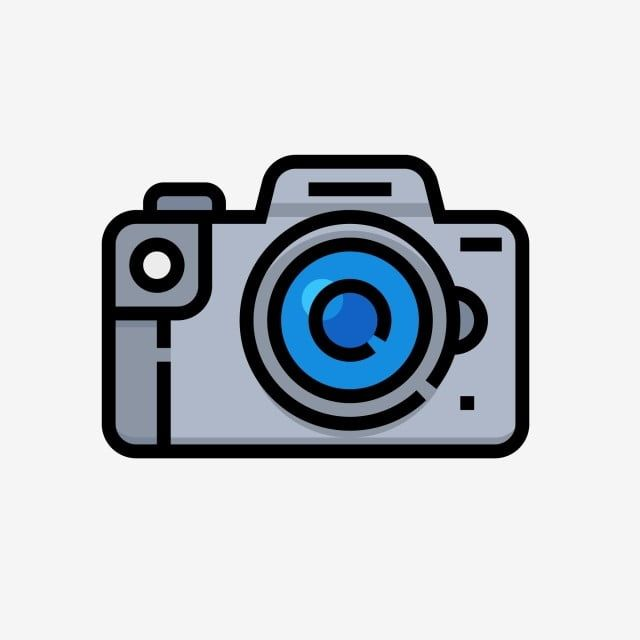
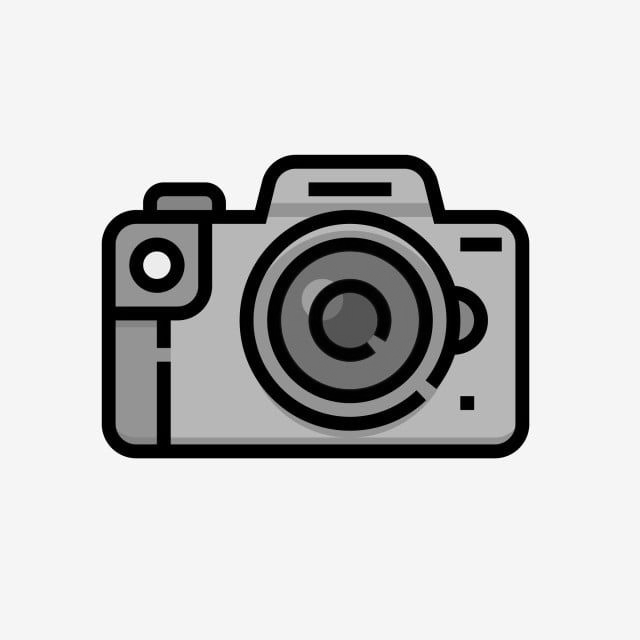
Add files via upload

Changed region(s): [[0.4375, 0.375, 0.6562, 0.625], [0.2812, 0.3125, 0.3125, 0.3438]]

diff --git a/home/graphics.html b/home/graphics.html
@@ -16,7 +16,7 @@
 
 	<!-- Prevent smartphones from scaling pages down -->
 	<meta name="viewport" content="initial-scale=1">
-	<link rel="icon" href="images/house.svg">
+	<link rel="icon" href="images/graphics.png">
 
 </head>
 <body>
@@ -32,7 +32,7 @@
 				<li class="navtext"><a href="index.html">About Me</a></li>
 			</ul>
 			<ul class="navigation">
-				<li class="lefticon"><a href="graphics.html"><img src="images/house.svg"></a></li>
+				<li class="lefticon"><a href="graphics.html"><img src="images/graphics.png"></a></li>
 				<li class="navtext"><a href="graphics.html">Graphics</a></li>
 			</ul>
 			<ul class="navigation">
@@ -57,7 +57,7 @@
 			
 			<div class="leftnav">
 				<li class="lefticon"><a href="index.html"><img src="images/resume.png"></a></li>
-				<li class="lefticon"><a href="graphics.html"><img src="images/house.svg"></a></li>
+				<li class="lefticon"><a href="graphics.html"><img src="images/graphics.png"></a></li>
 				<li class="lefticon"><a href="writing.html"><img src="images/writing.png"></a></li>
 				<li class="lefticon"><a href="tweets.html"><img src="images/twitter.png"></a></li>
 				<li class="lefticon"><a href="photography.html"><img src="images/photography.png"></a></li>
@@ -74,22 +74,13 @@
 				<li class="name">Asher Illick-Frank<li>
 				<li class="time">Dec 26, 2023</li>
 			</ul>
-			<div class="media"><img src="images/kwanzaa.png"></div>
+			<div class="media"><img src="images/graphic3.png"></div>
 		</ul>
 		<ul class="post">
 			<ul class="toplineofpost">
 				<li class="profilepic"><img src="images/profile.png"></li>
 				<li class="name">Asher Illick-Frank<li>
 				<li class="time">Oct 31, 2023</li>
-			</ul>
-			<div class="media"><img src="images/graphic1.png"></div>
-		</ul>
-
-		<ul class="post">
-			<ul class="toplineofpost">
-				<li class="profilepic"><img src="images/profile.png"></li>
-				<li class="name">Asher Illick-Frank<li>
-				<li class="time">Oct 24, 2023</li>
 			</ul>
 			<div class="media"><img src="images/graphic2.png"></div>
 		</ul>
@@ -100,16 +91,7 @@
 				<li class="name">Asher Illick-Frank<li>
 				<li class="time">Oct 18, 2022</li>
 			</ul>
-			<div class="media"><img src="images/graphic3.jpeg"></div>
-		</ul>
-				<ul class="post">
-			<ul class="toplineofpost">
-				<li class="profilepic"><img src="images/profile.png"></li>
-				<li class="name">Asher Illick-Frank<li>
-				<li class="time">April 14, 2023</li>
-			</ul>
-			<div class="media"><img src="images/graphic4.png"></div>
-		</ul>
+			<div class="media"><img src="images/graphic1.png"></div>
 	</div>
 
 		</nav>

diff --git a/home/index.html b/home/index.html
@@ -32,7 +32,7 @@
 				<li class="navtext"><a href="index.html">About Me</a></li>
 			</ul>
 			<ul class="navigation">
-				<li class="lefticon"><a href="graphics.html"><img src="images/house.svg"></a></li>
+				<li class="lefticon"><a href="graphics.html"><img src="images/graphics.png"></a></li>
 				<li class="navtext"><a href="graphics.html">Graphics</a></li>
 			</ul>
 			<ul class="navigation">
@@ -57,7 +57,7 @@
 			
 			<div class="leftnav">
 				<li class="lefticon"><a href="index.html"><img src="images/resume.png"></a></li>
-				<li class="lefticon"><a href="graphics.html"><img src="images/house.svg"></a></li>
+				<li class="lefticon"><a href="graphics.html"><img src="images/graphcs.png"></a></li>
 				<li class="lefticon"><a href="writing.html"><img src="images/writing.png"></a></li>
 				<li class="lefticon"><a href="tweets.html"><img src="images/twitter.png"></a></li>
 				<li class="lefticon"><a href="photography.html"><img src="images/photography.png"></a></li>
@@ -74,16 +74,14 @@
 			</div>
 		</div>
 		<ul class="post" style="background: black;">
-			<ul class="toplineofpost">
-			</ul>
-			<div class="media"><img src="images/asher.png">
+			<div class="media"><img src="images/profile.png">
 			</object></div>
 			<li class="post_text">
 				<p style="font-size: 20px;color: white;">
-				Hi there, my name is Asher and I'm looking to be a Communications Staffer on Capitol Hill.
+				Hello, my name is Asher and I am looking for a Press Assistant role in a Congressional Office.
 				<br>
 				<br>
-				I hope you will explore my digital portfolios and take a look at my resume below.
+				Explore my digital portfolios and take a look at my resume below.
 				<p>
 			</li>
 		</ul>
@@ -105,7 +103,7 @@
 				<li class="navtext"><a href="https://www.linkedin.com/in/asher-illick-frank-813391142/" target="_blank"></a></li>
 			</ul>
 			<ul class="linktype">
-				<li class="righticon"><a href="https://twitter.com/asher_if" target="_blank"><img src="images/twitter.png"></a></li>
+				<li class="righticon"><a href="https://twitter.com/asher_if" target="_blank"><img src="images/twitterblack.png"></a></li>
 				<li class="navtext"><a href="https://twitter.com/asher_if" target="_blank"></a></li>
 			</ul>
 			<ul class="linktype">

diff --git a/home/photography.html b/home/photography.html
@@ -31,7 +31,7 @@
         <li class="navtext"><a href="index.html">About Me</a></li>
       </ul>
       <ul class="navigation">
-        <li class="lefticon"><a href="graphics.html"><img src="images/house.svg"></a></li>
+        <li class="lefticon"><a href="graphics.html"><img src="images/graphics.png"></a></li>
         <li class="navtext"><a href="graphics.html">Graphics</a></li>
       </ul>
       <ul class="navigation">
@@ -56,7 +56,7 @@
       
       <div class="leftnav">
         <li class="lefticon"><a href="index.html"><img src="images/resume.png"></a></li>
-        <li class="lefticon"><a href="graphics.html"><img src="images/house.svg"></a></li>
+        <li class="lefticon"><a href="graphics.html"><img src="images/graphics.png"></a></li>
         <li class="lefticon"><a href="writing.html"><img src="images/writing.png"></a></li>
         <li class="lefticon"><a href="tweets.html"><img src="images/twitter.png"></a></li>
         <li class="lefticon"><a href="photography.html"><img src="images/photography.png"></a></li>

diff --git a/home/onthestreet.html b/home/onthestreet.html
@@ -30,7 +30,7 @@
 				<li class="navtext"><a href="index.html">About Me</a></li>
 			</ul>
 			<ul class="navigation">
-				<li class="lefticon"><a href="graphics.html"><img src="images/house.svg"></a></li>
+				<li class="lefticon"><a href="graphics.html"><img src="images/graphics.png"></a></li>
 				<li class="navtext"><a href="graphics.html">Graphics</a></li>
 			</ul>
 			<ul class="navigation">
@@ -55,7 +55,7 @@
 			
 			<div class="leftnav">
 				<li class="lefticon"><a href="index.html"><img src="images/resume.png"></a></li>
-				<li class="lefticon"><a href="graphics.html"><img src="images/house.svg"></a></li>
+				<li class="lefticon"><a href="graphics.html"><img src="images/graphics.png"></a></li>
 				<li class="lefticon"><a href="writing.html"><img src="images/writing.png"></a></li>
 				<li class="lefticon"><a href="tweets.html"><img src="images/twitter.png"></a></li>
 				<li class="lefticon"><a href="photography.html"><img src="images/photography.png"></a></li>

diff --git a/home/tweets.html b/home/tweets.html
@@ -31,7 +31,7 @@
 				<li class="navtext"><a href="index.html">About Me</a></li>
 			</ul>
 			<ul class="navigation">
-				<li class="lefticon"><a href="graphics.html"><img src="images/house.svg"></a></li>
+				<li class="lefticon"><a href="graphics.html"><img src="images/graphics.png"></a></li>
 				<li class="navtext"><a href="graphics.html">Graphics</a></li>
 			</ul>
 			<ul class="navigation">
@@ -56,7 +56,7 @@
 			
 			<div class="leftnav">
 				<li class="lefticon"><a href="index.html"><img src="images/resume.png"></a></li>
-				<li class="lefticon"><a href="graphics.html"><img src="images/house.svg"></a></li>
+				<li class="lefticon"><a href="graphics.html"><img src="images/graphics.png"></a></li>
 				<li class="lefticon"><a href="writing.html"><img src="images/writing.png"></a></li>
 				<li class="lefticon"><a href="tweets.html"><img src="images/twitter.png"></a></li>
 				<li class="lefticon"><a href="photography.html"><img src="images/photography.png"></a></li>

diff --git a/home/video.html b/home/video.html
@@ -31,7 +31,7 @@
 				<li class="navtext"><a href="index.html">About Me</a></li>
 			</ul>
 			<ul class="navigation">
-				<li class="lefticon"><a href="graphics.html"><img src="images/house.svg"></a></li>
+				<li class="lefticon"><a href="graphics.html"><img src="images/graphics.png"></a></li>
 				<li class="navtext"><a href="graphics.html">Graphics</a></li>
 			</ul>
 			<ul class="navigation">
@@ -56,7 +56,7 @@
 			
 			<div class="leftnav">
 				<li class="lefticon"><a href="index.html"><img src="images/resume.png"></a></li>
-				<li class="lefticon"><a href="graphics.html"><img src="images/house.svg"></a></li>
+				<li class="lefticon"><a href="graphics.html"><img src="images/graphics.png"></a></li>
 				<li class="lefticon"><a href="writing.html"><img src="images/writing.png"></a></li>
 				<li class="lefticon"><a href="tweets.html"><img src="images/twitter.png"></a></li>
 				<li class="lefticon"><a href="photography.html"><img src="images/photography.png"></a></li>

diff --git a/home/wnyu.html b/home/wnyu.html
@@ -30,7 +30,7 @@
 				<li class="navtext"><a href="index.html">About Me</a></li>
 			</ul>
 			<ul class="navigation">
-				<li class="lefticon"><a href="graphics.html"><img src="images/house.svg"></a></li>
+				<li class="lefticon"><a href="graphics.html"><img src="images/graphics.png"></a></li>
 				<li class="navtext"><a href="graphics.html">Graphics</a></li>
 			</ul>
 			<ul class="navigation">
@@ -55,7 +55,7 @@
 			
 			<div class="leftnav">
 				<li class="lefticon"><a href="index.html"><img src="images/resume.png"></a></li>
-				<li class="lefticon"><a href="graphics.html"><img src="images/house.svg"></a></li>
+				<li class="lefticon"><a href="graphics.html"><img src="images/graphics.png"></a></li>
 				<li class="lefticon"><a href="writing.html"><img src="images/writing.png"></a></li>
 				<li class="lefticon"><a href="tweets.html"><img src="images/twitter.png"></a></li>
 				<li class="lefticon"><a href="photography.html"><img src="images/photography.png"></a></li>

diff --git a/home/writing.html b/home/writing.html
@@ -31,7 +31,7 @@
 				<li class="navtext"><a href="index.html">About Me</a></li>
 			</ul>
 			<ul class="navigation">
-				<li class="lefticon"><a href="graphics.html"><img src="images/house.svg"></a></li>
+				<li class="lefticon"><a href="graphics.html"><img src="images/graphics.png"></a></li>
 				<li class="navtext"><a href="graphics.html">Graphics</a></li>
 			</ul>
 			<ul class="navigation">
@@ -56,7 +56,7 @@
 			
 			<div class="leftnav">
 				<li class="lefticon"><a href="index.html"><img src="images/resume.png"></a></li>
-				<li class="lefticon"><a href="graphics.html"><img src="images/house.svg"></a></li>
+				<li class="lefticon"><a href="graphics.html"><img src="images/graphics.png"></a></li>
 				<li class="lefticon"><a href="writing.html"><img src="images/writing.png"></a></li>
 				<li class="lefticon"><a href="tweets.html"><img src="images/twitter.png"></a></li>
 				<li class="lefticon"><a href="photography.html"><img src="images/photography.png"></a></li>

diff --git a/home/b&w.html b/home/b&w.html
@@ -31,7 +31,7 @@
 				<li class="navtext"><a href="index.html">About Me</a></li>
 			</ul>
 			<ul class="navigation">
-				<li class="lefticon"><a href="index.html"><img src="images/house.svg"></a></li>
+				<li class="lefticon"><a href="index.html"><img src="images/graphics.png"></a></li>
 				<li class="navtext"><a href="graphics.html">Graphics</a></li>
 			</ul>
 			<ul class="navigation">
@@ -56,7 +56,7 @@
 			
 			<div class="leftnav">
 				<li class="lefticon"><a href="index.html"><img src="images/resume.png"></a></li>
-				<li class="lefticon"><a href="graphics.html"><img src="images/house.svg"></a></li>
+				<li class="lefticon"><a href="graphics.html"><img src="images/graphics.png"></a></li>
 				<li class="lefticon"><a href="writing.html"><img src="images/writing.png"></a></li>
 				<li class="lefticon"><a href="tweets.html"><img src="images/twitter.png"></a></li>
 				<li class="lefticon"><a href="photography.html"><img src="images/photography.png"></a></li>
